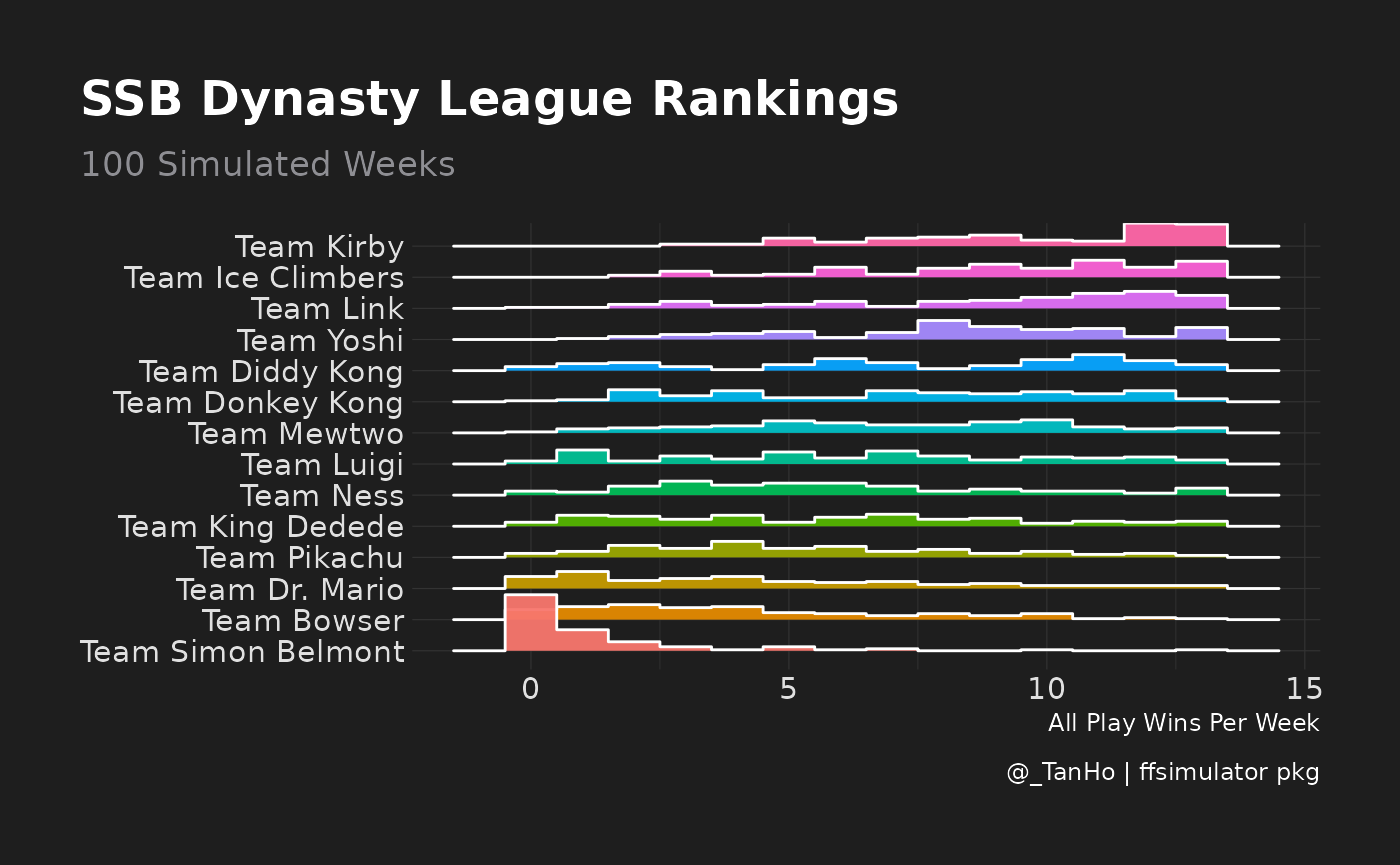
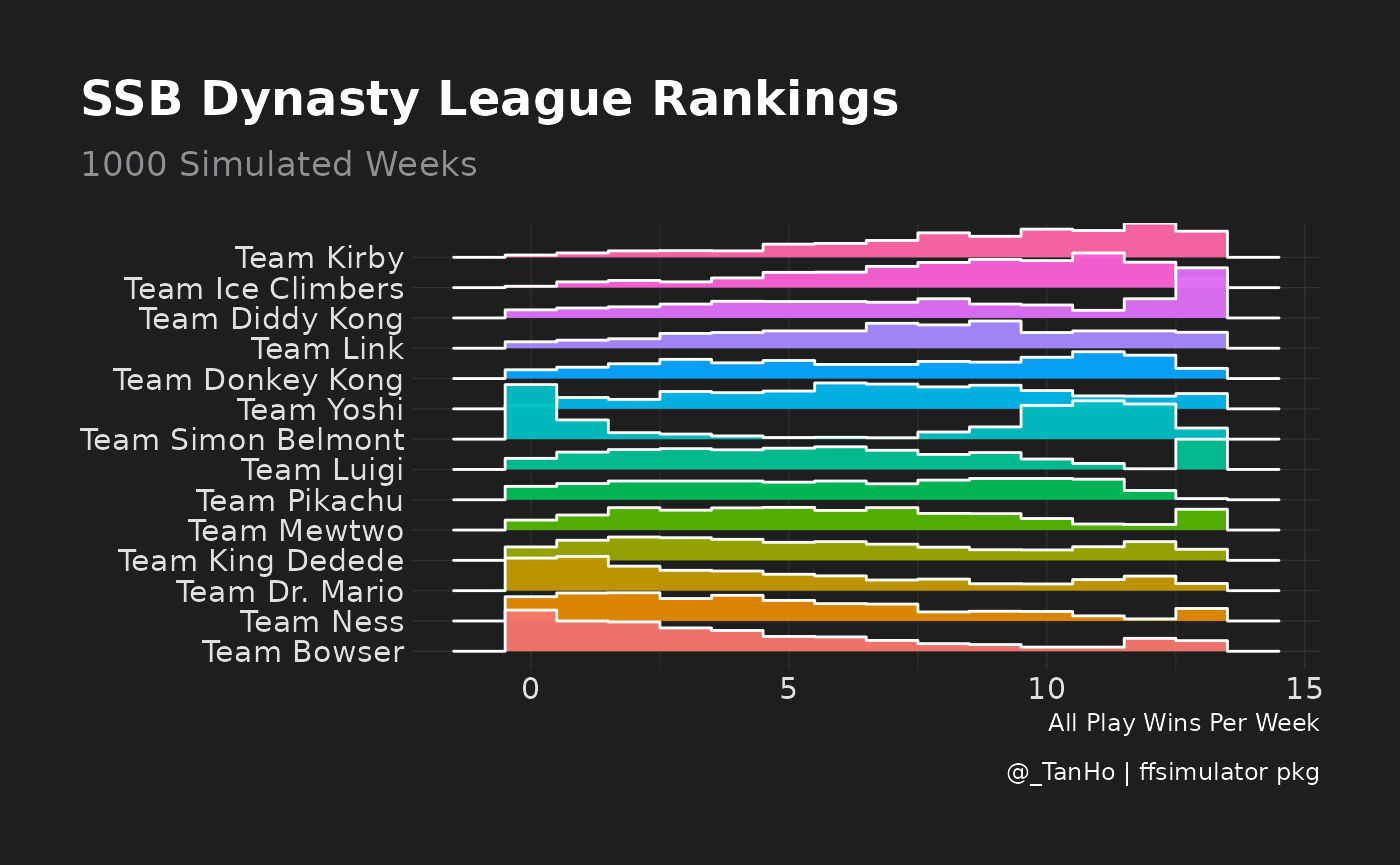
Built site for ffsimulator: 0.0.1.04@eac86db

Changed region(s): [[0.0614, 0.2497, 0.9214, 0.7803], [0.0921, 0.1561, 0.3379, 0.2185]]

diff --git a/articles/Test.html b/articles/Test.html
@@ -43,7 +43,7 @@
       </button>
       <span class="navbar-brand">
         <a class="navbar-link" href="../index.html">ffsimulator</a>
-        <span class="version label label-default" data-toggle="tooltip" data-placement="bottom" title="Released version">0.0.1.03</span>
+        <span class="version label label-default" data-toggle="tooltip" data-placement="bottom" title="Released version">0.0.1.04</span>
       </span>
     </div>
 
@@ -141,10 +141,6 @@
 <div class="sourceCode" id="cb1"><pre class="downlit sourceCode r">
 <code class="sourceCode R"><span class="kw"><a href="https://rdrr.io/r/base/library.html">library</a></span><span class="op">(</span><span class="va"><a href="https://github.com/tanho63/ffsimulator">ffsimulator</a></span><span class="op">)</span>
 <span class="kw"><a href="https://rdrr.io/r/base/library.html">library</a></span><span class="op">(</span><span class="va"><a href="https://ffscrapr.dynastyprocess.com">ffscrapr</a></span><span class="op">)</span>
-<span class="kw"><a href="https://rdrr.io/r/base/library.html">library</a></span><span class="op">(</span><span class="va"><a href="https://github.com/DavisVaughan/furrr">furrr</a></span><span class="op">)</span>
-<span class="kw"><a href="https://rdrr.io/r/base/library.html">library</a></span><span class="op">(</span><span class="va"><a href="https://github.com/dirkschumacher/ompr">ompr</a></span><span class="op">)</span>
-<span class="kw"><a href="https://rdrr.io/r/base/library.html">library</a></span><span class="op">(</span><span class="va"><a href="https://github.com/dirkschumacher/ompr.roi">ompr.roi</a></span><span class="op">)</span>
-<span class="kw"><a href="https://rdrr.io/r/base/library.html">library</a></span><span class="op">(</span><span class="va"><a href="http://roi.r-forge.r-project.org/">ROI</a></span><span class="op">)</span>
 <span class="kw"><a href="https://rdrr.io/r/base/library.html">library</a></span><span class="op">(</span><span class="va"><a href="https://dplyr.tidyverse.org">dplyr</a></span><span class="op">)</span>
 <span class="kw"><a href="https://rdrr.io/r/base/library.html">library</a></span><span class="op">(</span><span class="va"><a href="https://forcats.tidyverse.org">forcats</a></span><span class="op">)</span>
 <span class="kw"><a href="https://rdrr.io/r/base/library.html">library</a></span><span class="op">(</span><span class="va"><a href="http://purrr.tidyverse.org">purrr</a></span><span class="op">)</span>
@@ -152,8 +148,10 @@
 <span class="kw"><a href="https://rdrr.io/r/base/library.html">library</a></span><span class="op">(</span><span class="va"><a href="https://ggplot2.tidyverse.org">ggplot2</a></span><span class="op">)</span>
 
 <span class="fu">pkgload</span><span class="fu">::</span><span class="fu"><a href="https://rdrr.io/pkg/pkgload/man/load_all.html">load_all</a></span><span class="op">(</span><span class="op">)</span>
-<span class="fu">future</span><span class="fu">::</span><span class="fu"><a href="https://rdrr.io/pkg/future/man/plan.html">plan</a></span><span class="op">(</span><span class="va">multisession</span><span class="op">)</span>
-<span class="fu"><a href="https://rdrr.io/r/base/options.html">options</a></span><span class="op">(</span>future.rng.onMisuse <span class="op">=</span> <span class="st">"ignore"</span><span class="op">)</span></code></pre></div>
+<span class="kw"><a href="https://rdrr.io/r/base/library.html">library</a></span><span class="op">(</span><span class="va"><a href="http://github.com/hrbrmstr/hrbrthemes">hrbrthemes</a></span><span class="op">)</span>
+<span class="kw"><a href="https://rdrr.io/r/base/library.html">library</a></span><span class="op">(</span><span class="va"><a href="https://wilkelab.org/ggridges/">ggridges</a></span><span class="op">)</span>
+<span class="kw"><a href="https://rdrr.io/r/base/library.html">library</a></span><span class="op">(</span><span class="va"><a href="https://github.com/collectivemedia/tictoc">tictoc</a></span><span class="op">)</span>
+<span class="fu">hrbrthemes</span><span class="fu">::</span><span class="fu"><a href="https://rdrr.io/pkg/hrbrthemes/man/import_plex_sans.html">import_plex_sans</a></span><span class="op">(</span><span class="op">)</span></code></pre></div>
 <div class="sourceCode" id="cb2"><pre class="downlit sourceCode r">
 <code class="sourceCode R"><span class="va">conn</span> <span class="op">&lt;-</span> <span class="fu"><a href="ffscrapr.dynastyprocess.com/reference/mfl_connect.html">mfl_connect</a></span><span class="op">(</span><span class="fl">2021</span>, <span class="fl">54040</span><span class="op">)</span>
 
@@ -167,6 +165,8 @@
 <span class="va">rosters</span> <span class="op">&lt;-</span> <span class="fu">ffscrapr</span><span class="fu">::</span><span class="fu"><a href="ffscrapr.dynastyprocess.com/reference/ff_rosters.html">ff_rosters</a></span><span class="op">(</span><span class="va">conn</span><span class="op">)</span>
 
 <span class="va">lineup_constraints</span> <span class="op">&lt;-</span> <span class="fu">ffscrapr</span><span class="fu">::</span><span class="fu"><a href="ffscrapr.dynastyprocess.com/reference/ff_starter_positions.html">ff_starter_positions</a></span><span class="op">(</span><span class="va">conn</span><span class="op">)</span>
+
+<span class="va">n_weeks</span> <span class="op">&lt;-</span> <span class="fl">1000</span>
 
 <span class="va">projected_score</span> <span class="op">&lt;-</span> <span class="va">rosters</span> <span class="op">%&gt;%</span>
   <span class="fu">dplyr</span><span class="fu">::</span><span class="fu"><a href="https://dplyr.tidyverse.org/reference/mutate-joins.html">left_join</a></span><span class="op">(</span>
@@ -202,11 +202,11 @@
   <span class="fu">dplyr</span><span class="fu">::</span><span class="fu"><a href="https://dplyr.tidyverse.org/reference/mutate.html">mutate</a></span><span class="op">(</span>
     projection <span class="op">=</span> <span class="fu">purrr</span><span class="fu">::</span><span class="fu"><a href="https://purrr.tidyverse.org/reference/map_if.html">map_if</a></span><span class="op">(</span><span class="va">week_outcomes</span>,
                                <span class="fu"><a href="https://rdrr.io/r/base/funprog.html">Negate</a></span><span class="op">(</span><span class="va">is.null</span><span class="op">)</span>,
-                               <span class="op">~</span><span class="fu"><a href="https://rdrr.io/r/base/sample.html">sample</a></span><span class="op">(</span><span class="va">.x</span>, size <span class="op">=</span> <span class="fl">100</span>, replace <span class="op">=</span> <span class="cn">TRUE</span><span class="op">)</span><span class="op">)</span>,
+                               <span class="op">~</span><span class="fu"><a href="https://rdrr.io/r/base/sample.html">sample</a></span><span class="op">(</span><span class="va">.x</span>, size <span class="op">=</span> <span class="va">n_weeks</span>, replace <span class="op">=</span> <span class="cn">TRUE</span><span class="op">)</span><span class="op">)</span>,
     injury_model <span class="op">=</span> <span class="fu">purrr</span><span class="fu">::</span><span class="fu"><a href="https://purrr.tidyverse.org/reference/map_if.html">map_if</a></span><span class="op">(</span><span class="va">prob_gp</span>,
                                  <span class="fu"><a href="https://rdrr.io/r/base/funprog.html">Negate</a></span><span class="op">(</span><span class="va">is.null</span><span class="op">)</span>,
-                                 <span class="op">~</span><span class="fu"><a href="https://rdrr.io/r/stats/Binomial.html">rbinom</a></span><span class="op">(</span>n <span class="op">=</span> <span class="fl">100</span>, size <span class="op">=</span> <span class="fl">1</span>, prob <span class="op">=</span> <span class="va">.x</span><span class="op">)</span><span class="op">)</span>,
-    n <span class="op">=</span> <span class="fu">purrr</span><span class="fu">::</span><span class="fu"><a href="https://purrr.tidyverse.org/reference/map.html">map</a></span><span class="op">(</span><span class="fl">100</span>,<span class="va">seq_len</span><span class="op">)</span>,
+                                 <span class="op">~</span><span class="fu"><a href="https://rdrr.io/r/stats/Binomial.html">rbinom</a></span><span class="op">(</span>n <span class="op">=</span> <span class="va">n_weeks</span>, size <span class="op">=</span> <span class="fl">1</span>, prob <span class="op">=</span> <span class="va">.x</span><span class="op">)</span><span class="op">)</span>,
+    n <span class="op">=</span> <span class="fu">purrr</span><span class="fu">::</span><span class="fu"><a href="https://purrr.tidyverse.org/reference/map.html">map</a></span><span class="op">(</span><span class="va">n_weeks</span>,<span class="va">seq_len</span><span class="op">)</span>,
     prob_gp <span class="op">=</span> <span class="cn">NULL</span>,
     week_outcomes <span class="op">=</span> <span class="cn">NULL</span>,
     pos <span class="op">=</span> <span class="fu"><a href="https://rdrr.io/r/base/factor.html">factor</a></span><span class="op">(</span><span class="va">pos</span>, levels <span class="op">=</span> <span class="fu"><a href="https://rdrr.io/r/base/c.html">c</a></span><span class="op">(</span><span class="st">"QB"</span>,<span class="st">"RB"</span>,<span class="st">"WR"</span>,<span class="st">"TE"</span><span class="op">)</span><span class="op">)</span>
@@ -223,11 +223,11 @@
   <span class="fu"><a href="https://tidyr.tidyverse.org/reference/nest.html">nest</a></span><span class="op">(</span><span class="op">)</span> <span class="op">%&gt;%</span>
   <span class="fu"><a href="https://dplyr.tidyverse.org/reference/group_by.html">ungroup</a></span><span class="op">(</span><span class="op">)</span> <span class="op">%&gt;%</span>
   <span class="fu"><a href="https://dplyr.tidyverse.org/reference/mutate.html">mutate</a></span><span class="op">(</span>
-    optimals <span class="op">=</span> <span class="fu"><a href="https://rdrr.io/pkg/furrr/man/future_map.html">future_map</a></span><span class="op">(</span><span class="va">data</span>, <span class="fu">ffsimulator</span><span class="fu">::</span><span class="va"><a href="../reference/.ff_optimize_lineups.html">.ff_optimize_lineups</a></span>, <span class="va">lineup_constraints</span>, roi_engine <span class="op">=</span> <span class="st">"glpk"</span><span class="op">)</span>
+    optimals <span class="op">=</span> <span class="fu"><a href="https://purrr.tidyverse.org/reference/map.html">map</a></span><span class="op">(</span><span class="va">data</span>, <span class="fu">ffsimulator</span><span class="fu">::</span><span class="va"><a href="../reference/.ff_optimize_lineups.html">.ff_optimize_lineups</a></span>, <span class="va">lineup_constraints</span><span class="op">)</span>
   <span class="op">)</span> <span class="op">%&gt;%</span>
   <span class="fu"><a href="https://tidyr.tidyverse.org/reference/hoist.html">unnest_wider</a></span><span class="op">(</span><span class="va">optimals</span><span class="op">)</span>
 <span class="fu">tictoc</span><span class="fu">::</span><span class="fu"><a href="https://rdrr.io/pkg/tictoc/man/tic.html">toc</a></span><span class="op">(</span><span class="op">)</span>
-<span class="co">#&gt; 195.449 sec elapsed</span>
+<span class="co">#&gt; 18.806 sec elapsed</span>
 
 <span class="va">optimal_scores</span> <span class="op">&lt;-</span> <span class="va">optimal_scores</span> <span class="op">%&gt;%</span>
   <span class="fu"><a href="https://dplyr.tidyverse.org/reference/select.html">select</a></span><span class="op">(</span><span class="op">-</span><span class="va">data</span>,<span class="op">-</span><span class="va">optimal_lineup</span><span class="op">)</span> <span class="op">%&gt;%</span>
@@ -235,15 +235,6 @@
   <span class="fu"><a href="https://dplyr.tidyverse.org/reference/mutate.html">mutate</a></span><span class="op">(</span>all_play_wins <span class="op">=</span> <span class="fu"><a href="https://rdrr.io/r/base/rank.html">rank</a></span><span class="op">(</span><span class="va">optimal_score</span><span class="op">)</span><span class="op">-</span><span class="fl">1</span><span class="op">)</span> <span class="op">%&gt;%</span>
   <span class="fu"><a href="https://dplyr.tidyverse.org/reference/group_by.html">ungroup</a></span><span class="op">(</span><span class="op">)</span>
 
-<span class="kw"><a href="https://rdrr.io/r/base/library.html">library</a></span><span class="op">(</span><span class="va"><a href="http://github.com/hrbrmstr/hrbrthemes">hrbrthemes</a></span><span class="op">)</span>
-<span class="co">#&gt; NOTE: Either Arial Narrow or Roboto Condensed fonts are required to use these themes.</span>
-<span class="co">#&gt;       Please use hrbrthemes::import_roboto_condensed() to install Roboto Condensed and</span>
-<span class="co">#&gt;       if Arial Narrow is not on your system, please see https://bit.ly/arialnarrow</span>
-<span class="kw"><a href="https://rdrr.io/r/base/library.html">library</a></span><span class="op">(</span><span class="va"><a href="https://wilkelab.org/ggridges/">ggridges</a></span><span class="op">)</span>
-<span class="fu">hrbrthemes</span><span class="fu">::</span><span class="fu"><a href="https://rdrr.io/pkg/hrbrthemes/man/import_plex_sans.html">import_plex_sans</a></span><span class="op">(</span><span class="op">)</span>
-<span class="co">#&gt; You will likely need to install these fonts on your system as well.</span>
-<span class="co">#&gt; </span>
-<span class="co">#&gt; You can find them in [/home/runner/work/_temp/Library/hrbrthemes/fonts/plex-sans]</span>
 
 <span class="va">optimal_scores</span> <span class="op">%&gt;%</span>
   <span class="fu"><a href="https://dplyr.tidyverse.org/reference/group_by.html">group_by</a></span><span class="op">(</span><span class="va">franchise_name</span><span class="op">)</span> <span class="op">%&gt;%</span>
@@ -267,7 +258,7 @@
   <span class="fu"><a href="https://ggplot2.tidyverse.org/reference/labs.html">ylab</a></span><span class="op">(</span><span class="cn">NULL</span><span class="op">)</span> <span class="op">+</span>
   <span class="fu"><a href="https://ggplot2.tidyverse.org/reference/labs.html">labs</a></span><span class="op">(</span>
     title <span class="op">=</span> <span class="st">"SSB Dynasty League Rankings"</span>,
-    subtitle <span class="op">=</span> <span class="st">"100 Simulated Weeks"</span>,
+    subtitle <span class="op">=</span> <span class="st">"1000 Simulated Weeks"</span>,
     caption <span class="op">=</span> <span class="st">"@_TanHo | ffsimulator pkg"</span>
   <span class="op">)</span></code></pre></div>
 <p><img src="Test_files/figure-html/unnamed-chunk-2-1.png" width="700"></p>

diff --git a/reference/dot-ff_optimize_lineups.html b/reference/dot-ff_optimize_lineups.html
@@ -86,7 +86,7 @@
       </button>
       <span class="navbar-brand">
         <a class="navbar-link" href="../index.html">ffsimulator</a>
-        <span class="version label label-default" data-toggle="tooltip" data-placement="bottom" title="Released version">0.0.1.03</span>
+        <span class="version label label-default" data-toggle="tooltip" data-placement="bottom" title="Released version">0.0.1.04</span>
       </span>
     </div>
 
@@ -180,7 +180,7 @@
     <p>Optimizes lineups for one franchise week at a time. Use purrr or loop to do more franchises/weeks/seasons</p>
     </div>
 
-    <pre class="usage"><span class='fu'>.ff_optimize_lineups</span><span class='op'>(</span><span class='va'>franchise_scores</span>, <span class='va'>lineup_constraints</span>, roi_engine <span class='op'>=</span> <span class='st'>"glpk"</span><span class='op'>)</span></pre>
+    <pre class="usage"><span class='fu'>.ff_optimize_lineups</span><span class='op'>(</span><span class='va'>franchise_scores</span>, <span class='va'>lineup_constraints</span><span class='op'>)</span></pre>
 
     <h2 class="hasAnchor" id="arguments"><a class="anchor" href="#arguments"></a>Arguments</h2>
     <table class="ref-arguments">
@@ -192,10 +192,6 @@
     <tr>
       <th>lineup_constraints</th>
       <td><p>a data frame as created by <code><a href='ffscrapr.dynastyprocess.com/reference/ff_starter_positions.html'>ffscrapr::ff_starter_positions()</a></code></p></td>
-    </tr>
-    <tr>
-      <th>roi_engine</th>
-      <td><p>see ROI docs</p></td>
     </tr>
     </table>
 

diff --git a/reference/ffsimulator-package.html b/reference/ffsimulator-package.html
@@ -87,7 +87,7 @@ Simulate fantasy football seasons." />
       </button>
       <span class="navbar-brand">
         <a class="navbar-link" href="../index.html">ffsimulator</a>
-        <span class="version label label-default" data-toggle="tooltip" data-placement="bottom" title="Released version">0.0.1.03</span>
+        <span class="version label label-default" data-toggle="tooltip" data-placement="bottom" title="Released version">0.0.1.04</span>
       </span>
     </div>
 

diff --git a/404.html b/404.html
@@ -85,7 +85,7 @@
       </button>
       <span class="navbar-brand">
         <a class="navbar-link" href="ffsimulator.dynastyprocess.com/index.html">ffsimulator</a>
-        <span class="version label label-default" data-toggle="tooltip" data-placement="bottom" title="Released version">0.0.1.03</span>
+        <span class="version label label-default" data-toggle="tooltip" data-placement="bottom" title="Released version">0.0.1.04</span>
       </span>
     </div>
 

diff --git a/articles/index.html b/articles/index.html
@@ -85,7 +85,7 @@
       </button>
       <span class="navbar-brand">
         <a class="navbar-link" href="../index.html">ffsimulator</a>
-        <span class="version label label-default" data-toggle="tooltip" data-placement="bottom" title="Released version">0.0.1.03</span>
+        <span class="version label label-default" data-toggle="tooltip" data-placement="bottom" title="Released version">0.0.1.04</span>
       </span>
     </div>
 

diff --git a/reference/dot-ff_adp_outcomes.html b/reference/dot-ff_adp_outcomes.html
@@ -86,7 +86,7 @@
       </button>
       <span class="navbar-brand">
         <a class="navbar-link" href="../index.html">ffsimulator</a>
-        <span class="version label label-default" data-toggle="tooltip" data-placement="bottom" title="Released version">0.0.1.03</span>
+        <span class="version label label-default" data-toggle="tooltip" data-placement="bottom" title="Released version">0.0.1.04</span>
       </span>
     </div>
 

diff --git a/reference/dot-ff_apply_injury_model.html b/reference/dot-ff_apply_injury_model.html
@@ -86,7 +86,7 @@
       </button>
       <span class="navbar-brand">
         <a class="navbar-link" href="../index.html">ffsimulator</a>
-        <span class="version label label-default" data-toggle="tooltip" data-placement="bottom" title="Released version">0.0.1.03</span>
+        <span class="version label label-default" data-toggle="tooltip" data-placement="bottom" title="Released version">0.0.1.04</span>
       </span>
     </div>
 

diff --git a/reference/dot-ff_join_data.html b/reference/dot-ff_join_data.html
@@ -86,7 +86,7 @@
       </button>
       <span class="navbar-brand">
         <a class="navbar-link" href="../index.html">ffsimulator</a>
-        <span class="version label label-default" data-toggle="tooltip" data-placement="bottom" title="Released version">0.0.1.03</span>
+        <span class="version label label-default" data-toggle="tooltip" data-placement="bottom" title="Released version">0.0.1.04</span>
       </span>
     </div>
 

diff --git a/reference/dot-ff_latest_rankings.html b/reference/dot-ff_latest_rankings.html
@@ -86,7 +86,7 @@
       </button>
       <span class="navbar-brand">
         <a class="navbar-link" href="../index.html">ffsimulator</a>
-        <span class="version label label-default" data-toggle="tooltip" data-placement="bottom" title="Released version">0.0.1.03</span>
+        <span class="version label label-default" data-toggle="tooltip" data-placement="bottom" title="Released version">0.0.1.04</span>
       </span>
     </div>
 

diff --git a/reference/ff_connect.html b/reference/ff_connect.html
@@ -86,7 +86,7 @@
       </button>
       <span class="navbar-brand">
         <a class="navbar-link" href="../index.html">ffsimulator</a>
-        <span class="version label label-default" data-toggle="tooltip" data-placement="bottom" title="Released version">0.0.1.03</span>
+        <span class="version label label-default" data-toggle="tooltip" data-placement="bottom" title="Released version">0.0.1.04</span>
       </span>
     </div>
 

diff --git a/reference/ff_rosters.html b/reference/ff_rosters.html
@@ -86,7 +86,7 @@
       </button>
       <span class="navbar-brand">
         <a class="navbar-link" href="../index.html">ffsimulator</a>
-        <span class="version label label-default" data-toggle="tooltip" data-placement="bottom" title="Released version">0.0.1.03</span>
+        <span class="version label label-default" data-toggle="tooltip" data-placement="bottom" title="Released version">0.0.1.04</span>
       </span>
     </div>
 

diff --git a/reference/ff_scoringhistory.html b/reference/ff_scoringhistory.html
@@ -86,7 +86,7 @@
       </button>
       <span class="navbar-brand">
         <a class="navbar-link" href="../index.html">ffsimulator</a>
-        <span class="version label label-default" data-toggle="tooltip" data-placement="bottom" title="Released version">0.0.1.03</span>
+        <span class="version label label-default" data-toggle="tooltip" data-placement="bottom" title="Released version">0.0.1.04</span>
       </span>
     </div>
 
